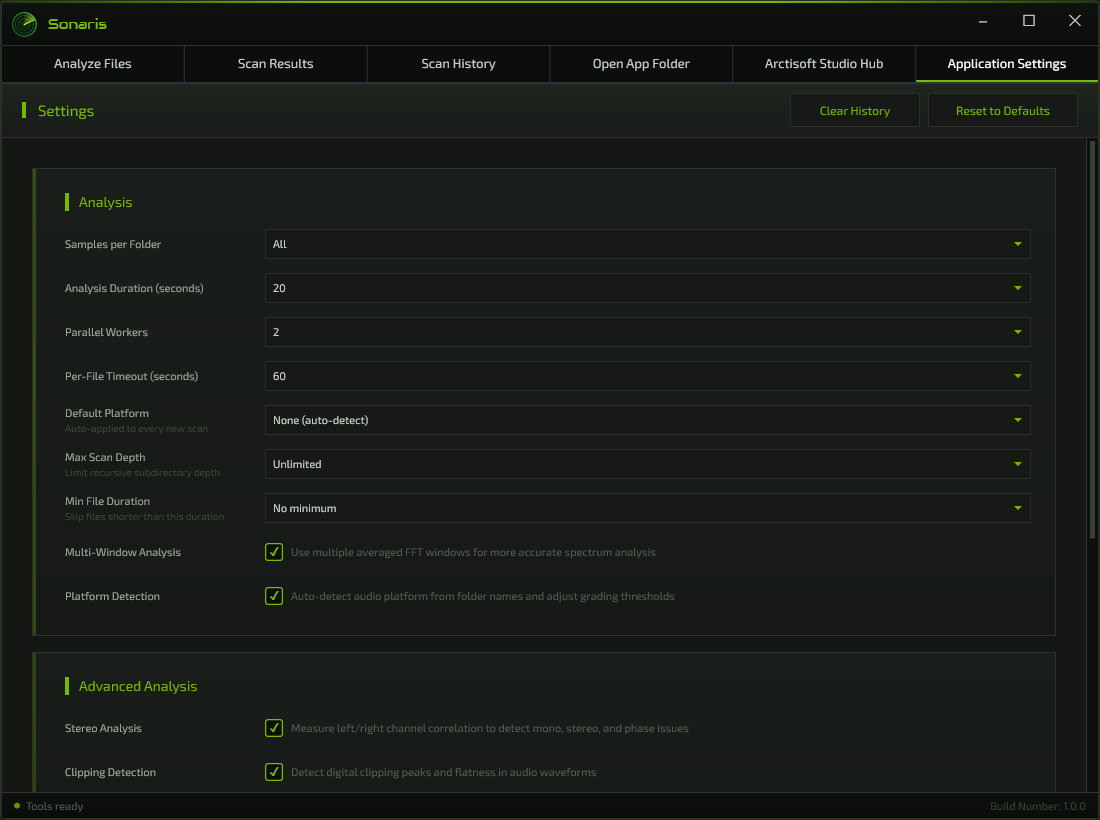
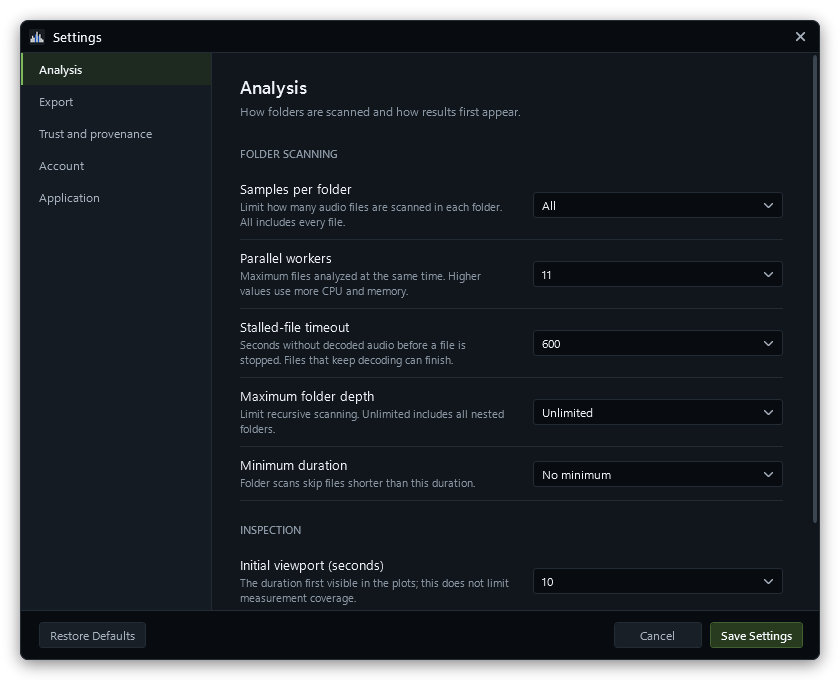
Synchronize Arctisoft products, artwork and workspace changes

diff --git a/README.md b/README.md
@@ -1,28 +1,28 @@
 <p align="center">
-  <img src="images/sonaris-logo.png" alt="Sonaris" width="96" height="96">
+  <img src="images/revelis-logo.png" alt="Revelis" width="96" height="96">
 </p>
 
-<h1 align="center">Sonaris</h1>
+<h1 align="center">Revelis</h1>
 
 <p align="center"><strong>Audio Quality Analyzer for Windows</strong></p>
 
 <p align="center">Measure, compare and verify audio — with the evidence behind every result.</p>
 
 <p align="center">
-  <a href="https://github.com/Arctisoft-Studio/Sonaris-Audio-Quality-Analyzer/releases/latest"><strong>Download</strong></a> ·
-  <a href="https://arctisoft-studio.com/software/sonaris/">Product website</a> ·
+  <a href="https://github.com/Arctisoft-Studio/Revelis-Audio-Quality-Analyzer/releases/latest"><strong>Download</strong></a> ·
+  <a href="https://arctisoft-studio.com/software/revelis/">Product website</a> ·
   <a href="https://arctisoft-studio.com/pricing/">Editions &amp; pricing</a> ·
-  <a href="https://github.com/Arctisoft-Studio/Sonaris-Audio-Quality-Analyzer/releases">Release notes</a> ·
+  <a href="https://github.com/Arctisoft-Studio/Revelis-Audio-Quality-Analyzer/releases">Release notes</a> ·
   <a href="https://arctisoft-studio.com/support/">Support</a>
 </p>
 
 <br>
 
-[![Sonaris with a completed analysis: spectrogram, waveform, measurement inspector and findings](images/sonaris-analysis.png)](https://arctisoft-studio.com/software/sonaris/)
+[![Revelis with a completed analysis: spectrogram, waveform, measurement inspector and findings](images/revelis-analysis.png)](https://arctisoft-studio.com/software/revelis/)
 
-<p align="center"><sub>The Analysis workspace: spectrogram, waveform and programme overview, the measurement inspector and timestamped findings. More views in the <a href="https://arctisoft-studio.com/software/sonaris/">product gallery</a>.</sub></p>
+<p align="center"><sub>The Analysis workspace: spectrogram, waveform and programme overview, the measurement inspector and timestamped findings. More views in the <a href="https://arctisoft-studio.com/software/revelis/">product gallery</a>.</sub></p>
 
-Sonaris is the audio measurement workstation of Arctisoft Studio. Analyse files, folders and live input; inspect loudness, peaks, dynamics, spectrum and stereo behaviour; compare two masters; and check a delivery against a named specification. Measurements, technical findings and delivery verdicts are kept separate, and each states its coverage and limits, so you can see exactly what a result establishes.
+Revelis is the audio measurement workstation of Arctisoft Studio. Analyse files, folders and live input; inspect loudness, peaks, dynamics, spectrum and stereo behaviour; compare two masters; and check a delivery against a named specification. Measurements, technical findings and delivery verdicts are kept separate, and each states its coverage and limits, so you can see exactly what a result establishes.
 
 ## Capabilities
 
@@ -31,7 +31,7 @@ Sonaris is the audio measurement workstation of Arctisoft Studio. Analyse files,
 - **Coverage you can trust.** Quick Scan measures representative regions, Deep Scan the whole programme; the report records what was actually measured, and failed or incomplete decoding is never presented as clean.
 - **Compare.** Two sources through the same measurement pipeline, with offset and gain alignment, drift and polarity checks, and codec preview of AAC, MP3 and Opus.
 - **Delivery Check.** Verify a master against EBU R 128, ATSC A/85, AES TD1008, Free TV OP-59, Spotify, Netflix, Apple Podcasts or your own house and client specifications — one file or a whole folder — with PDF delivery certificates.
-- **Live and in the DAW.** Realtime input metering with history and markers, and a VST3 companion that measures a bus inside your DAW and hands the session to Sonaris.
+- **Live and in the DAW.** Realtime input metering with history and markers, and a VST3 companion that measures a bus inside your DAW and hands the session to Revelis.
 - **Formats beyond PCM.** Native DSD (DSF and DSDIFF), high sample rates, multichannel sources and ADM programme rendering to stereo, 5.1, 7.1, 5.1.4 and 7.1.4.
 - **Records and automation.** Sessions and history, reports in HTML, CSV, JSON and text, SHA-256 archive manifests for later integrity checks, watch folders and a command line with exit codes for pipelines.
 
@@ -39,7 +39,7 @@ A spectrum or bit-pattern observation does not prove a file's original source, l
 
 ## Editions
 
-Every measurement, detector, finding and verdict is identical in both editions — a measurement is never more or less correct because of the edition. Premium adds the delivery and studio workflows around it: results that leave Sonaris and checks that run without you. Every Premium workflow is visible in Basic and explains itself at the step where it starts.
+Every measurement, detector, finding and verdict is identical in both editions — a measurement is never more or less correct because of the edition. Premium adds the delivery and studio workflows around it: results that leave Revelis and checks that run without you. Every Premium workflow is visible in Basic and explains itself at the step where it starts.
 
 | | Basic · free | Premium |
 | --- | :---: | :---: |
@@ -68,19 +68,19 @@ Premium is a one-time purchase for one person, covering the licensed major versi
 | Operating system | Windows 10 or Windows 11, 64-bit (x64) |
 | Runtime | Included with the installer |
 | Installation | For your Windows user account; administrator rights are not required |
-| Decoder | FFmpeg, downloaded and kept current by Sonaris on first use |
-| Plug-ins | A VST3 host, for the Sonaris companion |
+| Decoder | FFmpeg, downloaded and kept current by Revelis on first use |
+| Plug-ins | A VST3 host, for the Revelis companion |
 | Internet | For the decoder download, sign-in, licensing and updates; analysis works offline |
 
-Sonaris probes and decodes the actual media rather than trusting the file extension. Common PCM, lossless and lossy formats, multichannel WAV/RF64/BW64 and native DSD are supported; a damaged or unusual file is reported with the reason it could not be measured completely.
+Revelis probes and decodes the actual media rather than trusting the file extension. Common PCM, lossless and lossy formats, multichannel WAV/RF64/BW64 and native DSD are supported; a damaged or unusual file is reported with the reason it could not be measured completely.
 
 ## Installation and updates
 
-1. Download `v<version>-sonaris.exe` from the [latest release](https://github.com/Arctisoft-Studio/Sonaris-Audio-Quality-Analyzer/releases/latest).
+1. Download `v<version>-revelis.exe` from the [latest release](https://github.com/Arctisoft-Studio/Revelis-Audio-Quality-Analyzer/releases/latest).
 2. Run the installer and accept the license agreement. Setup can also install [Arctisoft Studio Hub](https://github.com/Arctisoft-Studio/Arctisoft-Studio-Hub).
-3. Start Sonaris. Sign in through Studio Hub when you want Premium or the trial.
+3. Start Revelis. Sign in through Studio Hub when you want Premium or the trial.
 
-Sonaris checks this repository for updates on the Stable or Preview channel you choose, and installs a new version only after verifying it against the SHA-256 checksum GitHub publishes for the release. Studio Hub can install and update the whole Arctisoft collection from one place.
+Revelis checks this repository for updates on the Stable or Preview channel you choose, and installs a new version only after verifying it against the SHA-256 checksum GitHub publishes for the release. Studio Hub can install and update the whole Arctisoft collection from one place.
 
 ## Accounts and privacy
 
@@ -88,11 +88,11 @@ Audio is analysed on your computer and is never uploaded for measurement. Local 
 
 ## Support
 
-Open the user guide from **Help**, visit [Arctisoft Support](https://arctisoft-studio.com/support/) or write to [support@arctisoft-studio.com](mailto:support@arctisoft-studio.com). Report reproducible problems and suggest improvements through [GitHub Issues](https://github.com/Arctisoft-Studio/Sonaris-Audio-Quality-Analyzer/issues). Please keep license keys, account details and private audio out of public reports.
+Open the user guide from **Help**, visit [Arctisoft Support](https://arctisoft-studio.com/support/) or write to [support@arctisoft-studio.com](mailto:support@arctisoft-studio.com). Report reproducible problems and suggest improvements through [GitHub Issues](https://github.com/Arctisoft-Studio/Revelis-Audio-Quality-Analyzer/issues). Please keep license keys, account details and private audio out of public reports.
 
 ## License
 
-Sonaris is proprietary commercial software. This repository holds its public documentation and official releases; the source code is not published. Use is governed by the [Sonaris EULA](LICENSE), the [Arctisoft Studio License Agreement](https://arctisoft-studio.com/legal/license/) and the [Terms of Service](https://arctisoft-studio.com/legal/terms/). Third-party components, including FFmpeg, keep their own licenses and are listed in the third-party notices installed with Sonaris. VST is a registered trademark of Steinberg Media Technologies GmbH.
+Revelis is proprietary commercial software. This repository holds its public documentation and official releases; the source code is not published. Use is governed by the [Revelis EULA](LICENSE), the [Arctisoft Studio License Agreement](https://arctisoft-studio.com/legal/license/) and the [Terms of Service](https://arctisoft-studio.com/legal/terms/). Third-party components, including FFmpeg, keep their own licenses and are listed in the third-party notices installed with Revelis. VST is a registered trademark of Steinberg Media Technologies GmbH.
 
 ---
 
